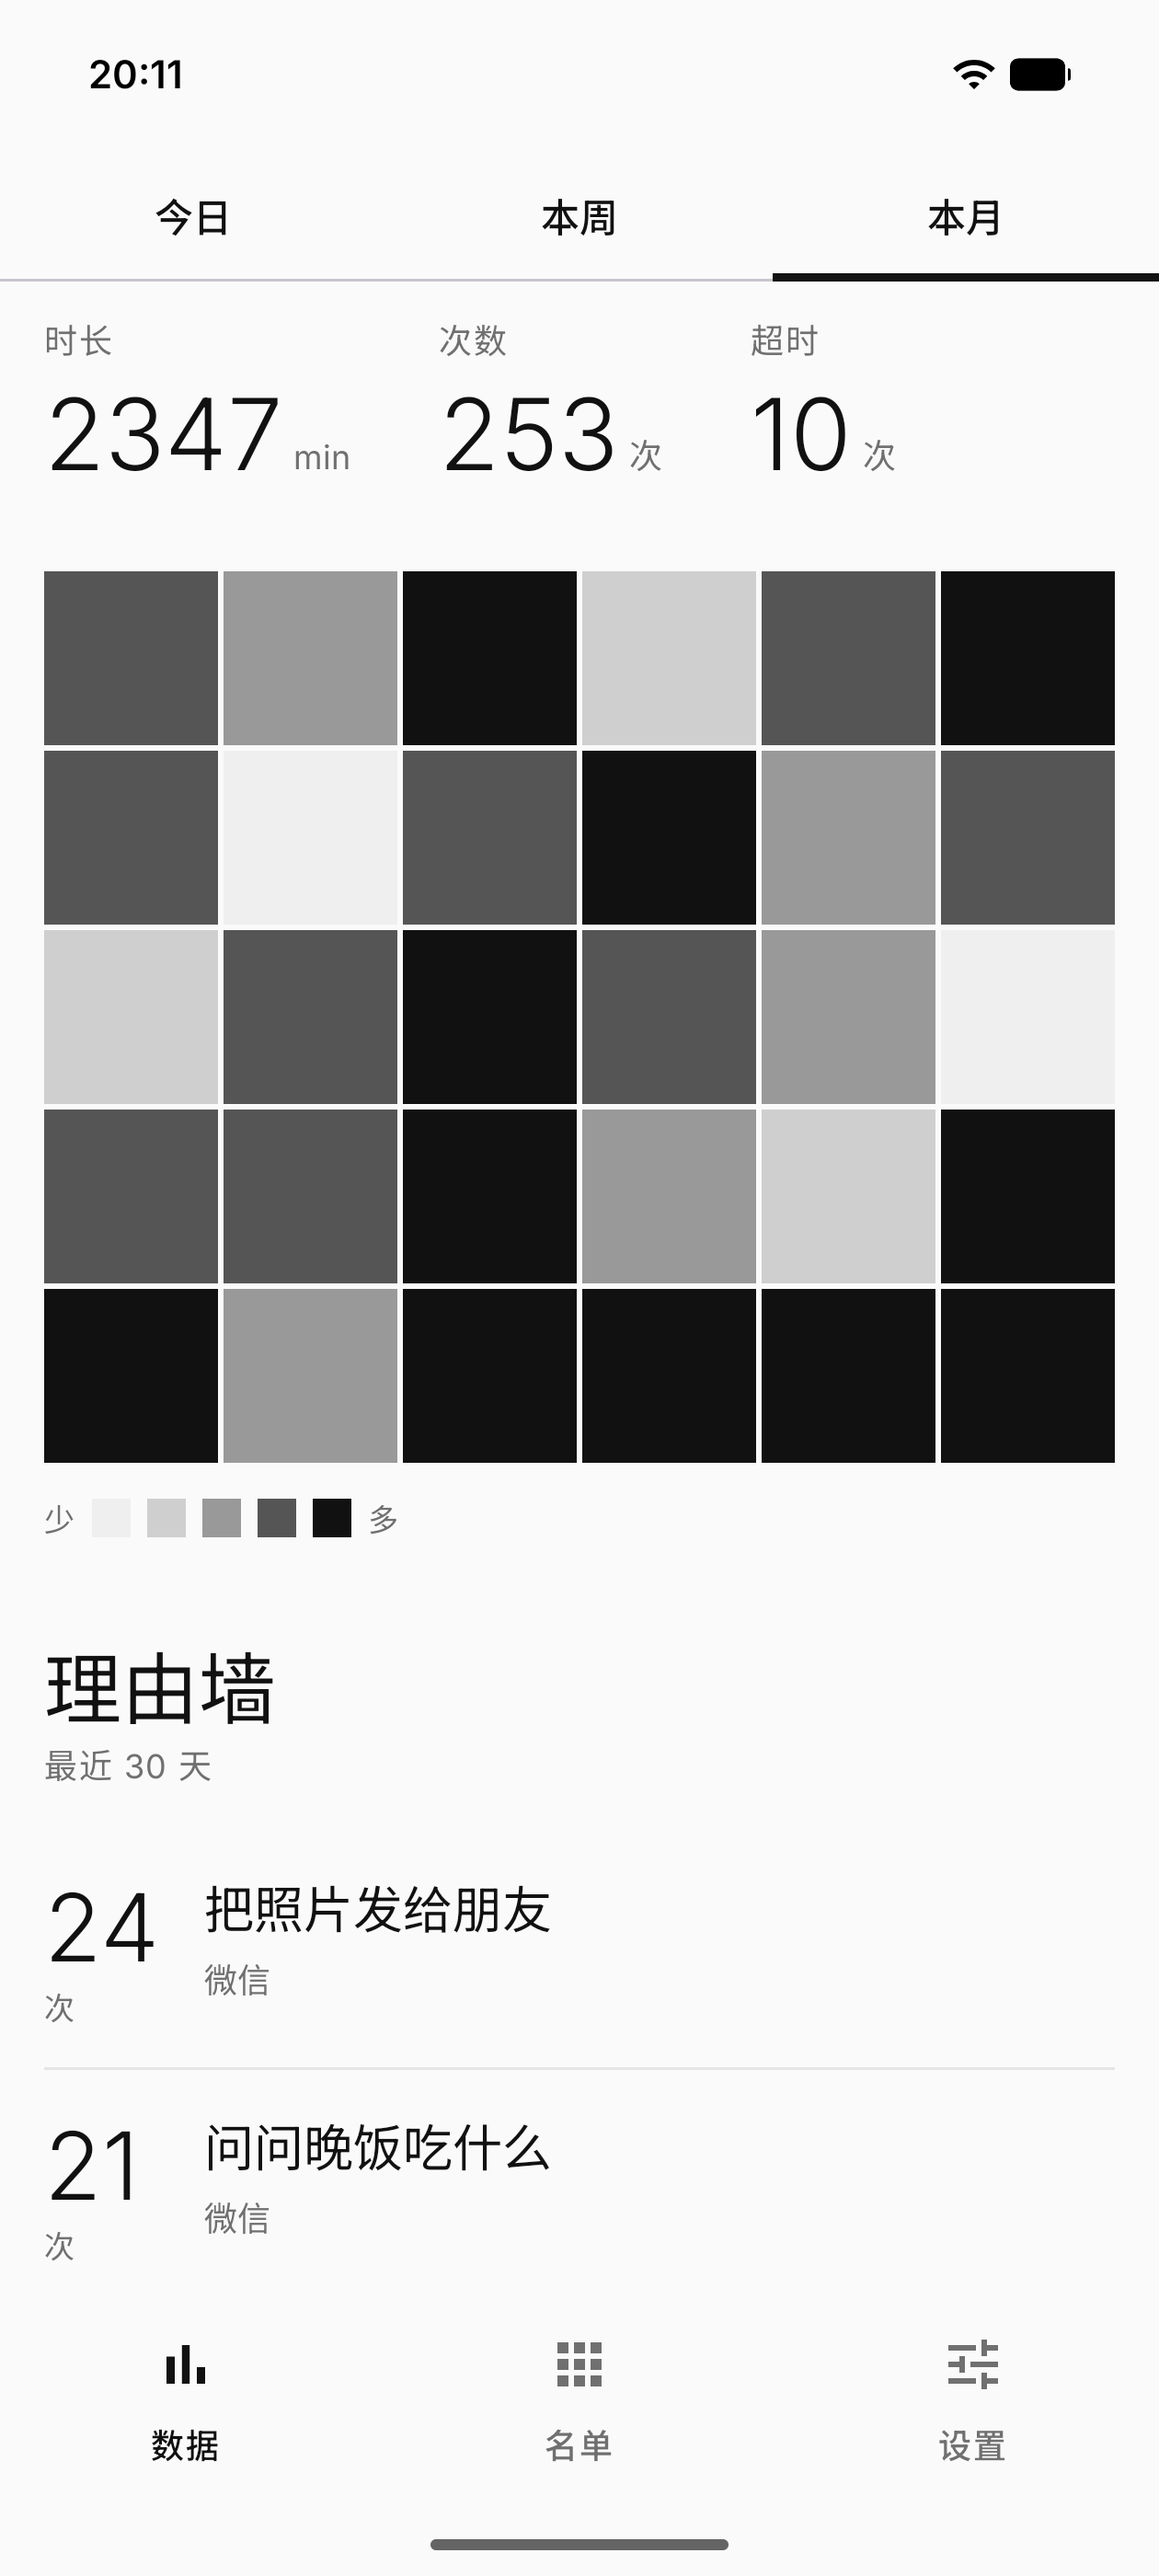
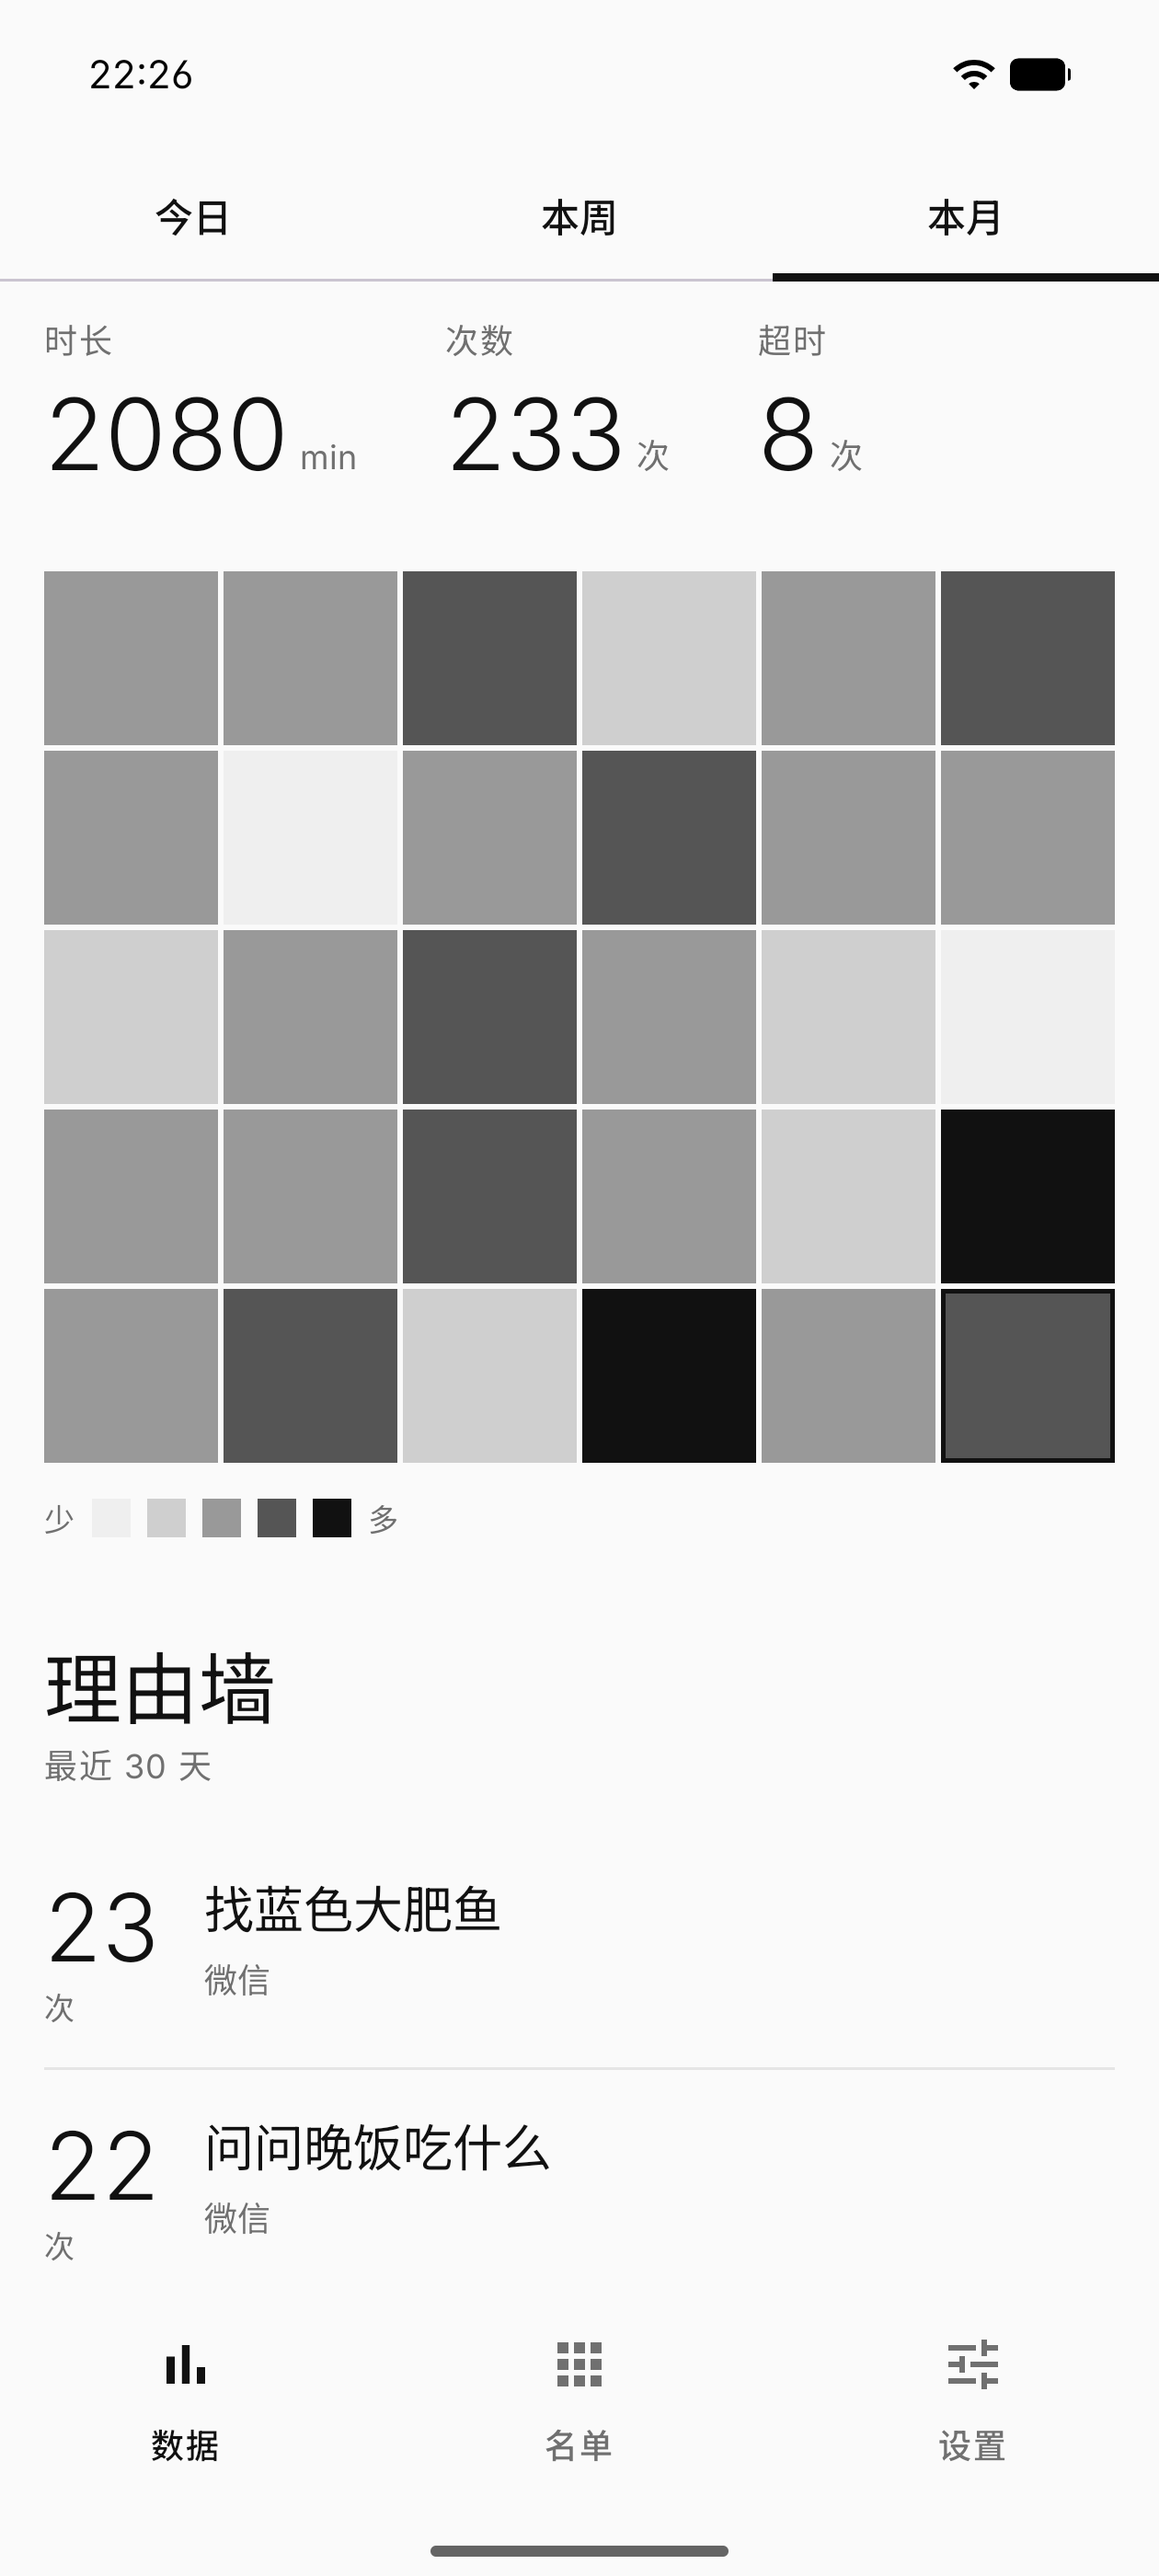
Finalize promotional week and month screenshots
Use the selected V10 week (471 minutes, 50 visits, 3 overruns) and C month with the reason-wall easter egg. Clarify that each view uses independently prepared fictional data.

Validation: original device captures, visible totals, README image links and matching public snapshot verified. No production code changes.

diff --git a/README.md b/README.md
@@ -8,7 +8,7 @@ Android 10+ · 完全离线 · MIT License
 
 ## 看看它的样子
 
-以下为真机截图，使用虚构的 30 天示例数据。时间轴上的每一道条纹，都对应一次有起止时间的使用记录。
+以下为真机截图，使用为各视图独立准备的虚构示例数据。时间轴上的每一道条纹，都对应一次有起止时间的使用记录。
 
 | 打开前，写下理由 | 今日，回看每次使用 | 本周，看看使用节奏 |
 | --- | --- | --- |
